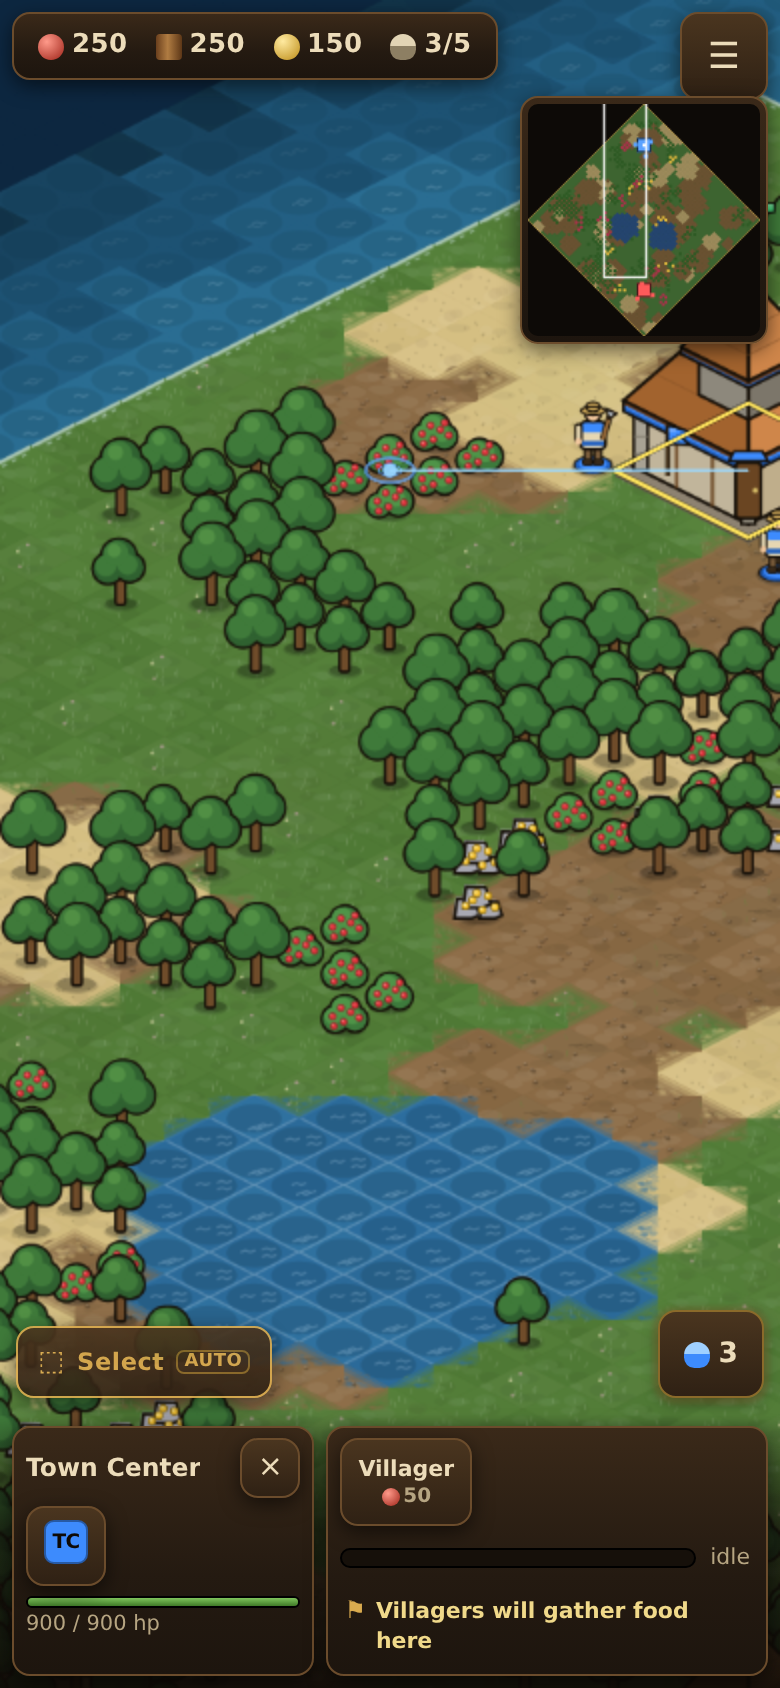
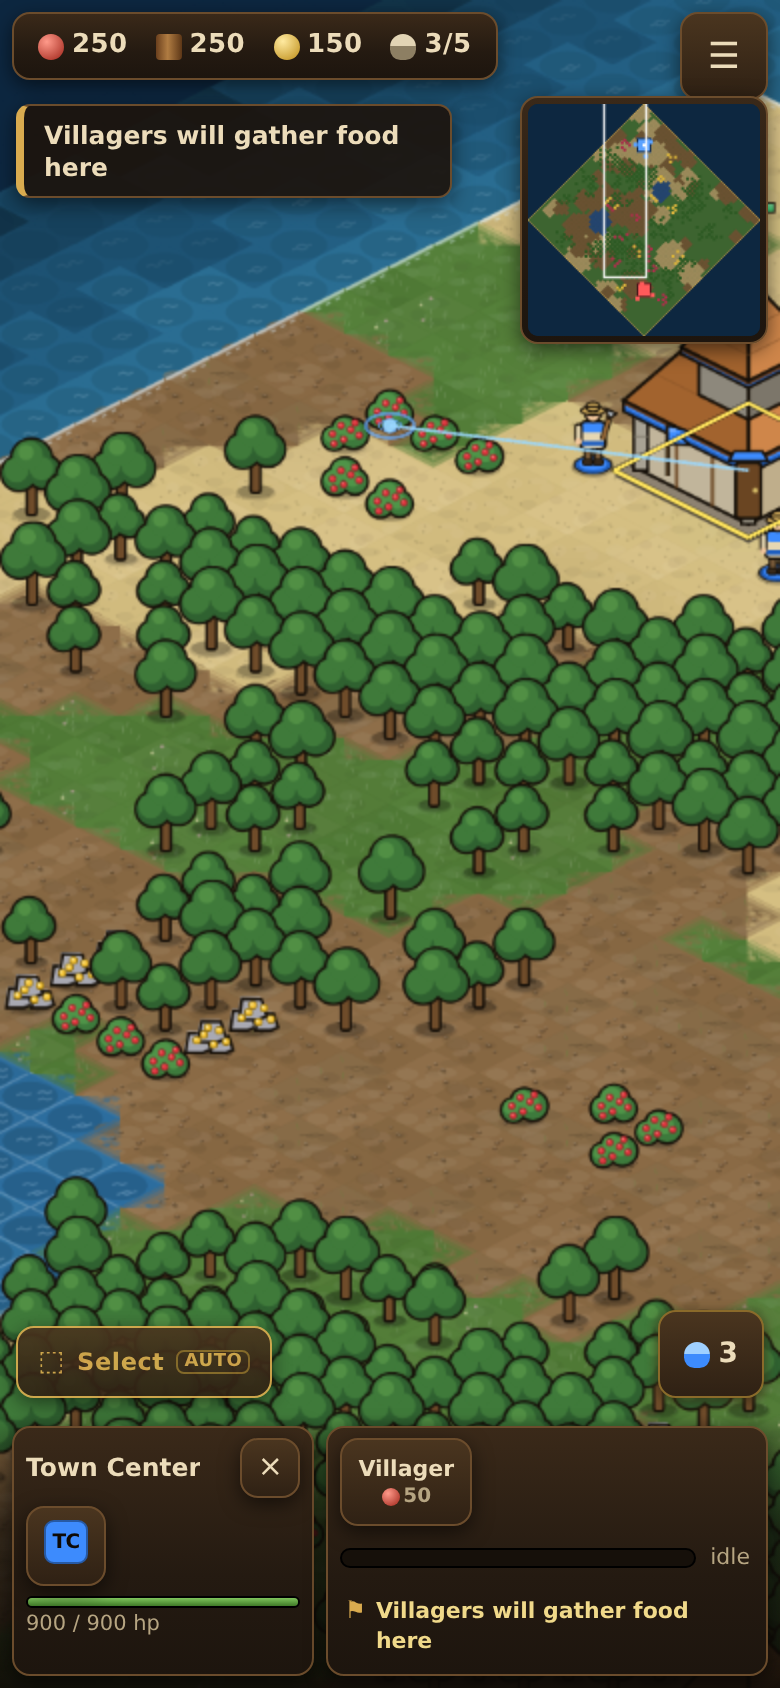
Wire rally-on-resource and attack-move into the touch layer
Rally-to-resource existed in the sim but the player could not reach it:
tapping a berry bush with the Town Center selected selected the bush. Now,
with a producing building in hand and no units selected, a tap aims the
rally at bare ground, a resource, one of your farms, or a foundation, while
anything else still selects as before. Three signals say which happened: a
blue rally ping distinct from the yellow gather ping, a toast naming the
outcome, and a persistent line in the command panel that doubles as how the
feature is discovered. The wording comes from one helper mirroring unit
AI, so the HUD cannot describe an outcome the sim will not produce. Rally
on a house is gone, since a house trains nothing and its rally was a lie.

Attack-move had no way to issue it. A toggle in the command panel arms the
next tap, mirroring how building placement already works, with a red armed
bar, four ways to cancel, and one-shot consumption so an ordinary move is
never a tap further away.

Also fixes toasts being swallowed for the first 1.6 seconds of a match,
including the opening orders: the throttle compared against a default of
zero rather than negative infinity.

Claude-Session: https://claude.ai/code/session_012wnKT6BiMkf1Q71vbmP9PB

diff --git a/src/ui/minimap.js b/src/ui/minimap.js
@@ -9,6 +9,9 @@
 // (~10Hz, driven by hud.js).
 
 import { MAP_W, MAP_H, HALF_W, HALF_H, TERRAIN } from '../core/constants.js';
+// The same deep water the main view now ends in, imported rather than copied so
+// the two surfaces stay in step if it is ever retuned.
+import { OCEAN_DEEP } from '../gfx/textures.js';
 
 const SPAN = MAP_W + MAP_H;
 
@@ -18,6 +21,14 @@ const TERRAIN_COLOR = {
   [TERRAIN.WATER]: '#25456f',
   [TERRAIN.SAND]:  '#9c8a5b',
 };
+
+/** '#rrggbb' for a 0xRRGGBB constant shared with the renderer. */
+function hex(n) {
+  return `#${n.toString(16).padStart(6, '0')}`;
+}
+// Everything outside the playable diamond is open sea, exactly as in the main
+// view. Baked into the terrain layer, so it costs nothing per redraw.
+const OCEAN_CSS = hex(OCEAN_DEEP);
 
 const RES_COLOR = { tree: '#2e5a24', berry: '#a8324a', gold: '#d8b33c' };
 const TEAM = ['#5aa2ff', '#ff5a5a'];
@@ -131,7 +142,8 @@ export function createMinimap(canvas, world) {
   }
 
   function draw(camera) {
-    ctx.clearRect(0, 0, size, size);
+    // The baked layer is opaque edge to edge (sea, then map), so blitting it is
+    // also the clear — no need to pay for both at 10Hz.
     ctx.drawImage(bg, 0, 0);
 
     // Resource nodes: small, dim, but enough to read the map's shape.
@@ -195,7 +207,11 @@ export function createMinimap(canvas, world) {
 }
 
 function bake(g, world, size) {
-  g.clearRect(0, 0, size, size);
+  // Open sea everywhere the map is not. The main view ends in the same water,
+  // and a minimap floating on black was the last surface still saying "the
+  // world stops here" instead of "the world is an island".
+  g.fillStyle = OCEAN_CSS;
+  g.fillRect(0, 0, size, size);
 
   // The playable area is a diamond; fill it with grass, then paint the tiles
   // that differ. That is a few hundred fills instead of MAP_W*MAP_H.

diff --git a/src/ui/hud.js b/src/ui/hud.js
@@ -563,7 +563,9 @@ export function createHud(scene, world) {
     // Attack-move: the one order a phone had no way to give. It arms the next
     // tap on the map rather than asking for a second gesture nobody would find.
     if (military.length) {
-      panel.appendChild(cmdButton(state.attackArmed ? 'Cancel' : 'Attack-move', {
+      // The label never changes: it names the mode, and the lit state plus the
+      // bar say whether it is on. (Tapping it again still turns it off.)
+      panel.appendChild(cmdButton('Attack-move', {
         cls: `attack ${state.attackArmed ? 'armed' : ''}`,
         sub: state.attackArmed ? 'tap a spot' : `${military.length} ready`,
         onTap: () => setAttackArmed(!state.attackArmed),

diff --git a/src/ui/hud.css b/src/ui/hud.css
@@ -212,7 +212,9 @@ body {
   width: 116px;
   height: 116px;
   border-radius: 5px;
-  background: #0d0a07;
+  /* Mirrors OCEAN_DEEP (gfx/textures.js), which the minimap bakes as its
+     out-of-map sea — this only shows for the frame before the first draw. */
+  background: #0d2740;
   touch-action: none;
 }
 
